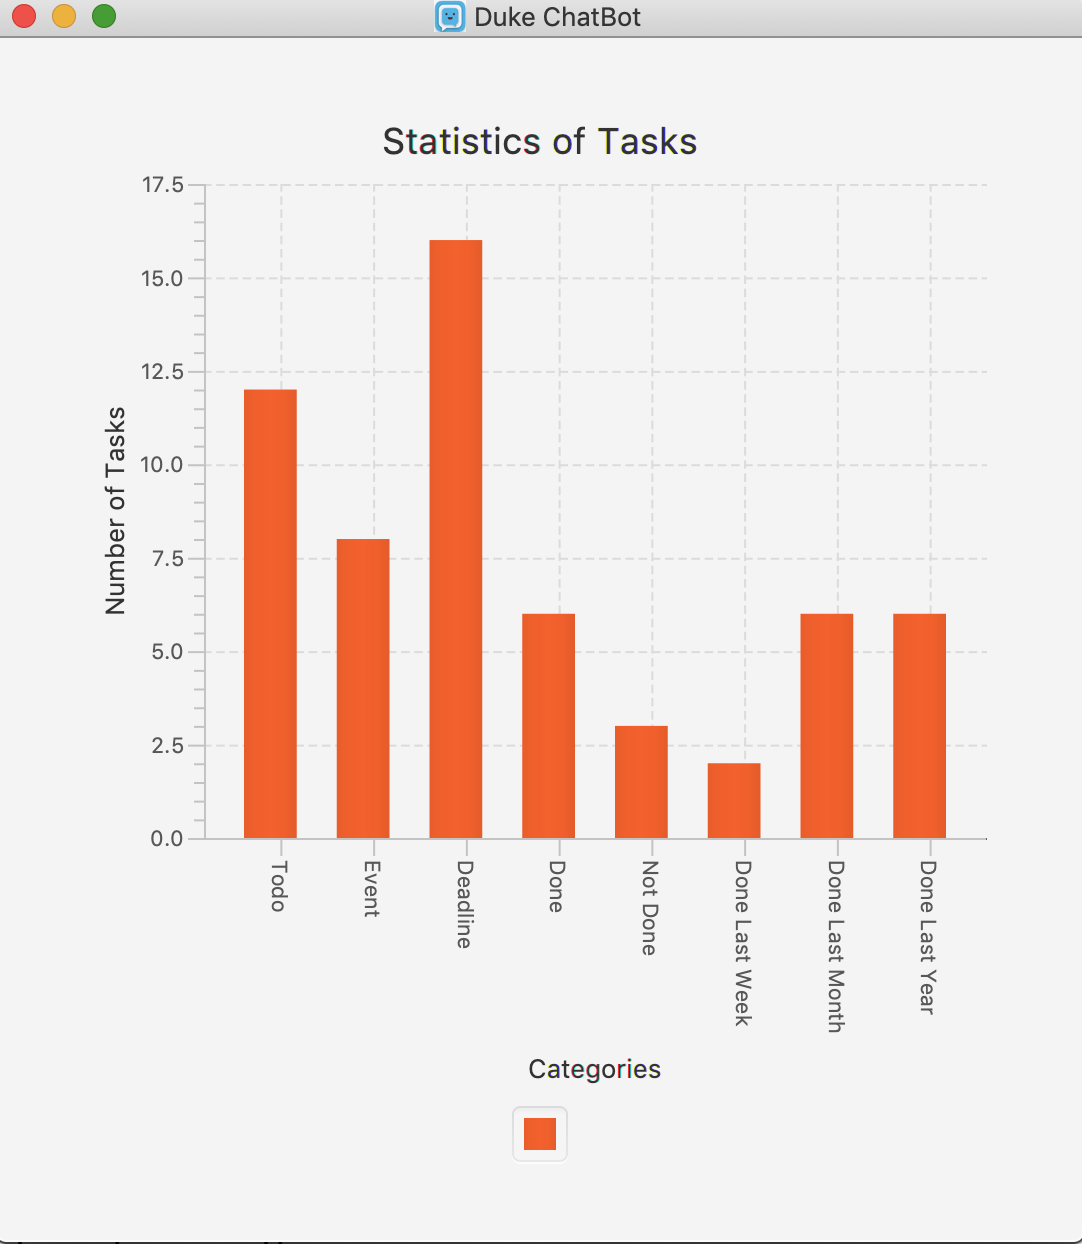
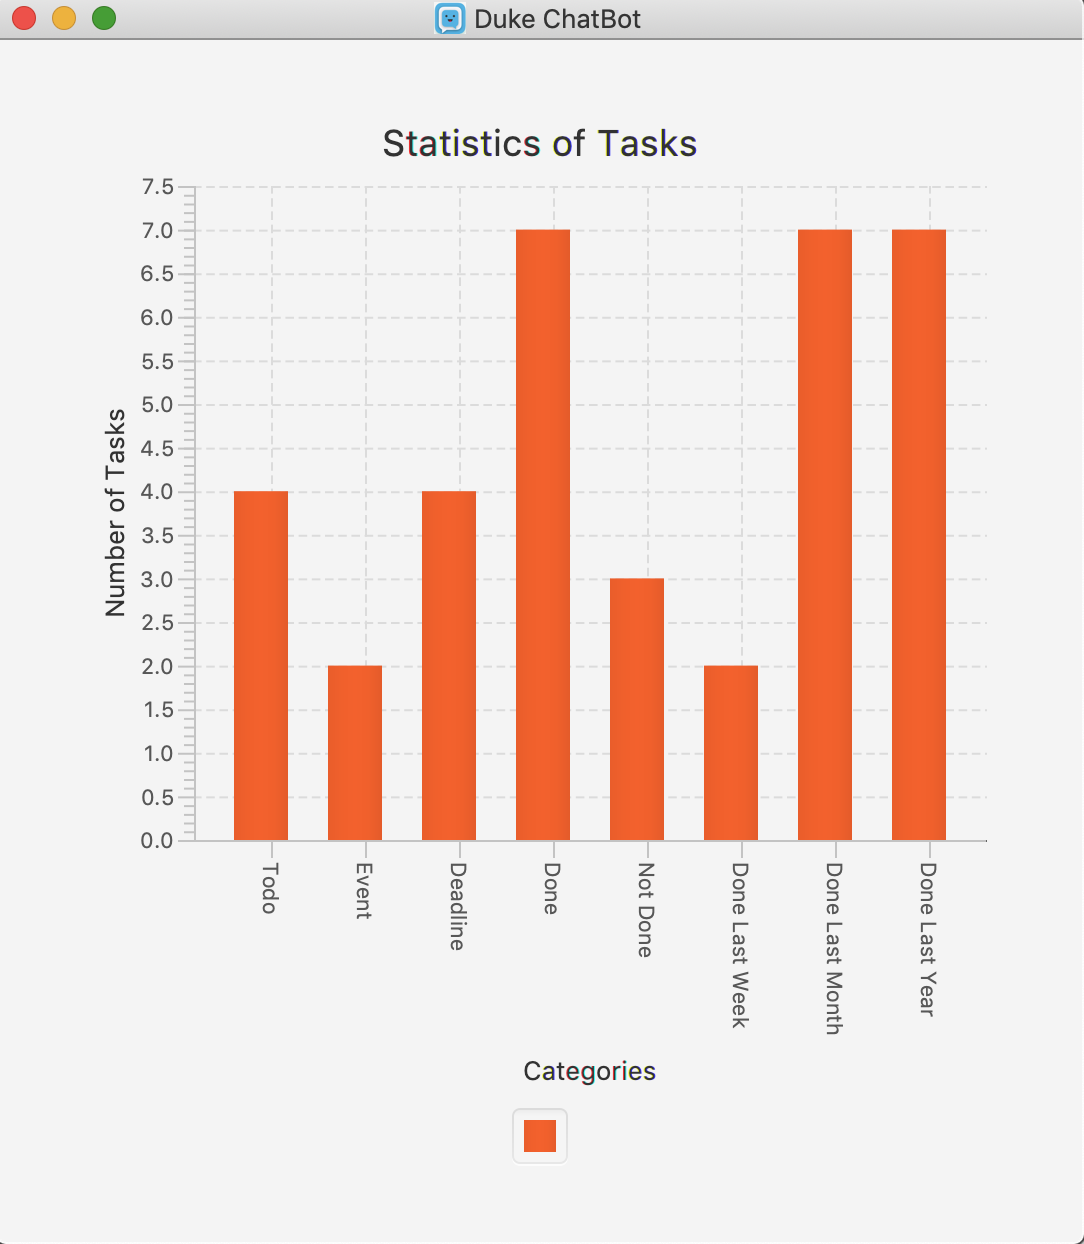
Change method for statistics

diff --git a/src/main/java/seedu/duke/TaskList.java b/src/main/java/seedu/duke/TaskList.java
@@ -16,6 +16,9 @@ public class TaskList {
     static int numDonePastWeek = 0;
     static int numDonePastMonth = 0;
     static int numDonePastYear = 0;
+    static int numTodo = 0;
+    static int numEvent = 0;
+    static int numDeadline = 0;
 
     /**
      * Constructor of the Tasklist class.
@@ -48,13 +51,6 @@ public class TaskList {
      * @param t the task to be deleted
      */
     public void deleteTask(Task t) {
-        if (t instanceof Todo) {
-            Todo.numTodo--;
-        } else if (t instanceof Event) {
-            Event.numEvent--;
-        } else if (t instanceof Deadline) {
-            Deadline.numDeadline--;
-        }
         taskList.remove(t);
     }
 
@@ -110,6 +106,14 @@ public class TaskList {
      */
     public static void calculateStats() {
         for (Task t: taskList) {
+            if (t instanceof Todo) {
+                numTodo++;
+            } else if (t instanceof Event) {
+                numEvent++;
+            } else if (t instanceof Deadline) {
+                numDeadline++;
+            }
+
             if (t.isDone) {
                 numTaskDone++;
                 if (doneLastYear(t)) {
@@ -133,6 +137,11 @@ public class TaskList {
         numTaskDone = 0;
         numTaskNotDone = 0;
         numDonePastWeek = 0;
+        numDonePastMonth = 0;
+        numDonePastYear = 0;
+        numTodo = 0;
+        numEvent = 0;
+        numDeadline = 0;
     }
 
     /**
@@ -143,7 +152,7 @@ public class TaskList {
      */
     public static boolean doneLastWeek(Task t) {
         Duration duration = Duration.between(t.getDoneDateTime(), LocalDateTime.now());
-        return (duration.toMinutes() <= 7);
+        return (duration.toDays() <= 7);
     }
 
     /**

diff --git a/src/main/java/seedu/duke/StatisticsController.java b/src/main/java/seedu/duke/StatisticsController.java
@@ -51,9 +51,9 @@ public class StatisticsController {
 
         XYChart.Series set1 = new XYChart.Series<>();
 
-        set1.getData().add(new XYChart.Data("Todo", Todo.numTodo));
-        set1.getData().add(new XYChart.Data("Event", Event.numEvent));
-        set1.getData().add(new XYChart.Data("Deadline", Deadline.numDeadline));
+        set1.getData().add(new XYChart.Data("Todo", TaskList.numTodo));
+        set1.getData().add(new XYChart.Data("Event", TaskList.numEvent));
+        set1.getData().add(new XYChart.Data("Deadline", TaskList.numDeadline));
         set1.getData().add(new XYChart.Data("Done", TaskList.numTaskDone));
         set1.getData().add(new XYChart.Data("Not Done", TaskList.numTaskNotDone));
         set1.getData().add(new XYChart.Data("Done Last Week", TaskList.numDonePastWeek));

diff --git a/src/main/java/seedu/duke/Deadline.java b/src/main/java/seedu/duke/Deadline.java
@@ -10,7 +10,6 @@ import java.util.Date;
 public class Deadline extends Task {
 
     private Date dateTime;
-    static int numDeadline = 0;
 
     /**
      * Constructor of Deadline task.
@@ -21,7 +20,6 @@ public class Deadline extends Task {
     public Deadline(String description, Date dateTime) {
         super(description);
         this.dateTime = dateTime;
-        numDeadline++;
     }
 
     /**

diff --git a/src/main/java/seedu/duke/Event.java b/src/main/java/seedu/duke/Event.java
@@ -10,7 +10,6 @@ import java.util.Date;
 public class Event extends Task {
 
     private Date dateTime;
-    static int numEvent = 0;
 
     /**
      * Constructor for Event class.
@@ -21,7 +20,6 @@ public class Event extends Task {
     public Event(String description, Date dateTime) {
         super(description);
         this.dateTime = dateTime;
-        numEvent++;
     }
 
     /**

diff --git a/src/main/java/seedu/duke/Todo.java b/src/main/java/seedu/duke/Todo.java
@@ -10,7 +10,6 @@ import java.util.Date;
 public class Todo extends Task {
 
     private Date dateTime = null;
-    static int numTodo = 0;
 
     /**
      * Constructor of a Todo class.
@@ -19,7 +18,6 @@ public class Todo extends Task {
      */
     public Todo(String description) {
         super(description);
-        numTodo++;
     }
 
     /**
